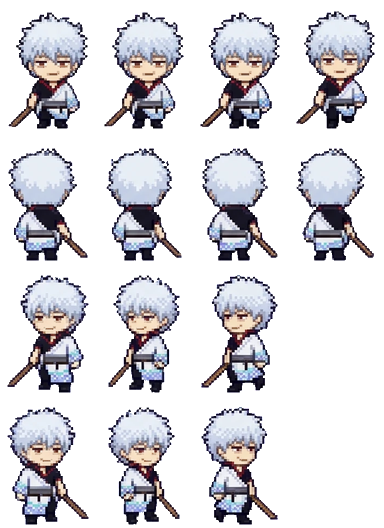
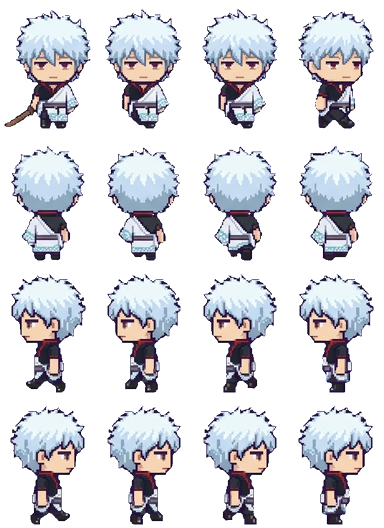
Redraw Sakata Gintoki in the shared art style
Claude-Session: https://claude.ai/code/session_01KaPsBYLrtbRfMYNG2xeBCK

diff --git a/docs/app.js b/docs/app.js
@@ -75,7 +75,7 @@ function spr(cat, k, col, sc) {
   return `<div class="clip" style="width:${it[2] * sc}px;height:${it[3] * sc}px;POS"><img class="px" src="assets/decor/${cat}.png" alt="" style="width:${S.sw * sc}px;height:${S.sh * sc}px;margin-left:${-col * S.cw * sc}px;margin-top:${-i * S.ch * sc}px"></div>`;
 }
 const icon = (k, sz) => `<span class="itm" style="width:${sz}px;height:${sz}px"><img class="px" src="assets/ui/items.png" alt="" style="width:${IT.length * sz}px;height:${sz}px;margin-left:${-ITM[k].i * sz}px"></span>`;
-const face = (id, w) => { const s = w / 96; return `<img class="px" src="assets/ch/${id}.webp?v=52" alt="" style="position:absolute;width:${384 * s}px;height:${528 * s}px;left:${-(96 * s - w) / 2}px;top:0;max-width:none">`; };
+const face = (id, w) => { const s = w / 96; return `<img class="px" src="assets/ch/${id}.webp?v=53" alt="" style="position:absolute;width:${384 * s}px;height:${528 * s}px;left:${-(96 * s - w) / 2}px;top:0;max-width:none">`; };
 
 // ---------- 저장 ----------
 let fb = null, user = null, S = null, saveT = null;
@@ -143,7 +143,7 @@ function sleepHTML(id, r, dy) {
   const pos = r.a && r.a[0] === 'bed' ? 'left:3%;bottom:20%' : r.b && r.b[0] === 'bed' ? 'right:3%;bottom:20%' : 'left:calc(50% - 44px);bottom:6%';
   const s = 36 / 96;
   return `<div style="position:absolute;width:88px;height:56px;${pos};z-index:${dy ? 4 : 5};${dy ? `transform:translate(12px,${dy}px)` : ''}"><div style="position:absolute;inset:0;filter:brightness(.22)">
-    <div style="position:absolute;left:11px;top:1px;width:36px;height:50px;overflow:hidden;transform:rotate(-90deg)"><img class="px" src="assets/ch/${id}.webp?v=52" alt="" style="width:${384 * s}px;height:${528 * s}px;max-width:none;margin-top:${-132 * s}px"></div>
+    <div style="position:absolute;left:11px;top:1px;width:36px;height:50px;overflow:hidden;transform:rotate(-90deg)"><img class="px" src="assets/ch/${id}.webp?v=53" alt="" style="width:${384 * s}px;height:${528 * s}px;max-width:none;margin-top:${-132 * s}px"></div>
     <div style="position:absolute;left:19px;top:19px;width:67px;height:29px;border:2px solid var(--ink);border-radius:8px 6px 4px 4px;background:#8ccff5;background-image:repeating-linear-gradient(90deg,transparent 0 10px,rgba(255,255,255,.5) 10px 13px)"></div></div>
     ${dy ? '' : '<span class="emo" style="left:8px;top:-22px;color:#5b6bd6">Z z z</span>'}</div>`;
 }
@@ -153,8 +153,8 @@ function roomHTML(id, o, scale) {
     <div class="floor" style="background-color:${PAL[r.fc][1]};background-image:${tileUrl('floor', r.fl)}"></div>
     ${slot('deco', r.dc, 'left:6%;top:6%')}${slot('furn', r.a, 'left:3%;bottom:20%')}${slot('furn', r.b, 'right:3%;bottom:20%')}${slot('prop', r.pr, 'left:28%;bottom:4%;z-index:2')}
     ${id && o.sleeping && g ? sleepHTML(g, r, -16) : ''}${id && o.sleeping ? sleepHTML(id, r) : ''}${id && o.job ? `<div style="position:absolute;left:50%;top:38%;transform:translateX(-50%);z-index:5;background:#fff;border:3px solid var(--ink);border-radius:10px;padding:6px 10px;font-size:11px;text-align:center;line-height:1.5"><img src="assets/ui/ic_job.png" alt="" style="width:18px;vertical-align:-4px"> ${WORK[id] ? WORK[id][1] : esc(JOB_NAME[id]) + ' 알바 중'}${g ? `<br><small>${esc(nameOf(g))}도 같이</small>` : ''}<br><b id="jobleft">${timeLeft(o.job.until)}</b></div>` : ''}
-    ${id ? `<div class="shadow" id="shd" ${o.sleeping || o.job ? 'style="display:none"' : ''}></div><div class="man" id="man" ${o.sleeping || o.job ? 'style="display:none"' : ''}><img class="px" src="assets/ch/${id}.webp?v=52" alt="${esc(nameOf(id))}"></div><span class="emo" id="emo" hidden></span><span class="mumble" id="mum" hidden></span>` : ''}
-    ${g ? `<div class="shadow" id="gshd" ${hideG}></div><div class="man" id="gman" ${hideG}><img class="px" src="assets/ch/${g}.webp?v=52" alt="${esc(nameOf(g))}"></div><span class="emo" id="gemo" hidden></span><span class="mumble gmum" id="gmum" hidden></span>` : ''}
+    ${id ? `<div class="shadow" id="shd" ${o.sleeping || o.job ? 'style="display:none"' : ''}></div><div class="man" id="man" ${o.sleeping || o.job ? 'style="display:none"' : ''}><img class="px" src="assets/ch/${id}.webp?v=53" alt="${esc(nameOf(id))}"></div><span class="emo" id="emo" hidden></span><span class="mumble" id="mum" hidden></span>` : ''}
+    ${g ? `<div class="shadow" id="gshd" ${hideG}></div><div class="man" id="gman" ${hideG}><img class="px" src="assets/ch/${g}.webp?v=53" alt="${esc(nameOf(g))}"></div><span class="emo" id="gemo" hidden></span><span class="mumble gmum" id="gmum" hidden></span>` : ''}
     ${o.sleeping ? `<div class="night"></div><div class="sleepleft">쿨쿨 · 일어나기까지 <b id="sleepleft">${timeLeft(wakeAt(o)).replace(' 남음', '')}</b></div>` : ''}
   </div>`;
 }
@@ -167,7 +167,7 @@ function meterHTML(o) {
 const ic = (act, img, label, pressed) => `<button class="ic" data-act="${act}" ${pressed ? 'aria-pressed="true"' : ''}><img src="assets/ui/ic_${img}.png?v=2" alt="">${label}</button>`;
 
 let dropStyle = null; const cheat = {};
-const APP_V = 124, COUPONS = { NINOGUYA: 3000 };
+const APP_V = 125, COUPONS = { NINOGUYA: 3000 };
 // 쿠폰 입력 정리: 한글 자판 상태로 친 글자(ㅜㅑㅜㅐ혀ㅛㅁ)도 영어 자판 글자로 바꾸고, 대소문자·띄어쓰기·마침표는 무시해요
 const KEY = { ㄱ: 'r', ㄲ: 'R', ㄴ: 's', ㄷ: 'e', ㄸ: 'E', ㄹ: 'f', ㅁ: 'a', ㅂ: 'q', ㅃ: 'Q', ㅅ: 't', ㅆ: 'T', ㅇ: 'd', ㅈ: 'w', ㅉ: 'W', ㅊ: 'c', ㅋ: 'z', ㅌ: 'x', ㅍ: 'v', ㅎ: 'g',
   ㅏ: 'k', ㅐ: 'o', ㅑ: 'i', ㅒ: 'O', ㅓ: 'j', ㅔ: 'p', ㅕ: 'u', ㅖ: 'P', ㅗ: 'h', ㅘ: 'hk', ㅙ: 'ho', ㅚ: 'hl', ㅛ: 'y', ㅜ: 'n', ㅝ: 'nj', ㅞ: 'np', ㅟ: 'nl', ㅠ: 'b', ㅡ: 'm', ㅢ: 'ml', ㅣ: 'l',
@@ -407,7 +407,7 @@ function startTrip(k) {
   if (tg) lines[1] = `${nameOf(tg)}: ${withHim(sub(pick(GLX(tg).trip), o, c.n), tg)}`;
   const n = (FR[id] || [4, 4, 4, 4])[3], el = document.createElement('div'); el.className = 'tripview';
   el.innerHTML = `<div class="tsay"> </div><div class="tstage" style="background-image:url(assets/travel/${k}.png?v=2)"><div class="tplace">${esc(c.n)}</div>
-    <div class="twalker"><img class="px" src="assets/ch/${id}.webp?v=52" alt=""></div>${tg ? `<div class="twalker tgirl"><img class="px" src="assets/ch/${tg}.webp?v=52" alt=""></div>` : ''}<span class="emo tjoy">♪</span></div>
+    <div class="twalker"><img class="px" src="assets/ch/${id}.webp?v=53" alt=""></div>${tg ? `<div class="twalker tgirl"><img class="px" src="assets/ch/${tg}.webp?v=53" alt=""></div>` : ''}<span class="emo tjoy">♪</span></div>
     <div class="tbar"><i></i></div><button class="btn white tskip" data-tskip="1">바로 돌아오기</button>`;
   document.body.appendChild(el);
   const gimg = el.querySelector('.tgirl img'), gn = tg ? (FR[tg] || [4, 4, 4, 4])[3] : 1;
@@ -636,7 +636,7 @@ setInterval(() => { if (S && user) { tickTime(); save(); } }, 60000);
     if (nv > APP_V && !location.search.includes('u=' + nv)) { location.replace(location.pathname + '?u=' + nv); return; }
   } catch { }
   app.innerHTML = '<div class="start"><div class="egg"><div class="scr"></div></div><div class="note">불러오는 중....</div></div>';
-  const [c, t, f, it, mu, ct, tv, gl, sts] = await Promise.all(['data/chars.json', 'data/talk.json', 'data/frames.json', 'data/items.json', 'data/mumble.json', 'data/countries.json', 'data/travel.json', 'data/girls.json', 'data/sets.json'].map(u => fetch(u + '?v=124').then(r => r.ok ? r.json() : {})));
+  const [c, t, f, it, mu, ct, tv, gl, sts] = await Promise.all(['data/chars.json', 'data/talk.json', 'data/frames.json', 'data/items.json', 'data/mumble.json', 'data/countries.json', 'data/travel.json', 'data/girls.json', 'data/sets.json'].map(u => fetch(u + '?v=125').then(r => r.ok ? r.json() : {})));
   CH = c; CHM = Object.fromEntries(c.map(x => [x.id, x])); TALK = t; FR = f; IT = it; ITM = Object.fromEntries(it.map(x => [x.k, x])); MUM = mu; CTRY = ct; TRV = tv; GL = Array.isArray(gl) ? gl : []; SETS = Array.isArray(sts) ? sts : []; GLM = Object.fromEntries(GL.map(x => [x.id, x]));
   try { await initFirebase(); } catch (e) { console.warn('Firebase 연결 실패, 기기 저장으로', e); fb = null; }
   if (fb) {

diff --git a/docs/index.html b/docs/index.html
@@ -18,6 +18,6 @@
 <main id="app" aria-live="polite"></main>
 <div id="toast" role="status" hidden></div>
 <script src="firebase-config.js?v=3"></script>
-<script type="module" src="app.js?v=124"></script>
+<script type="module" src="app.js?v=125"></script>
 </body>
 </html>
